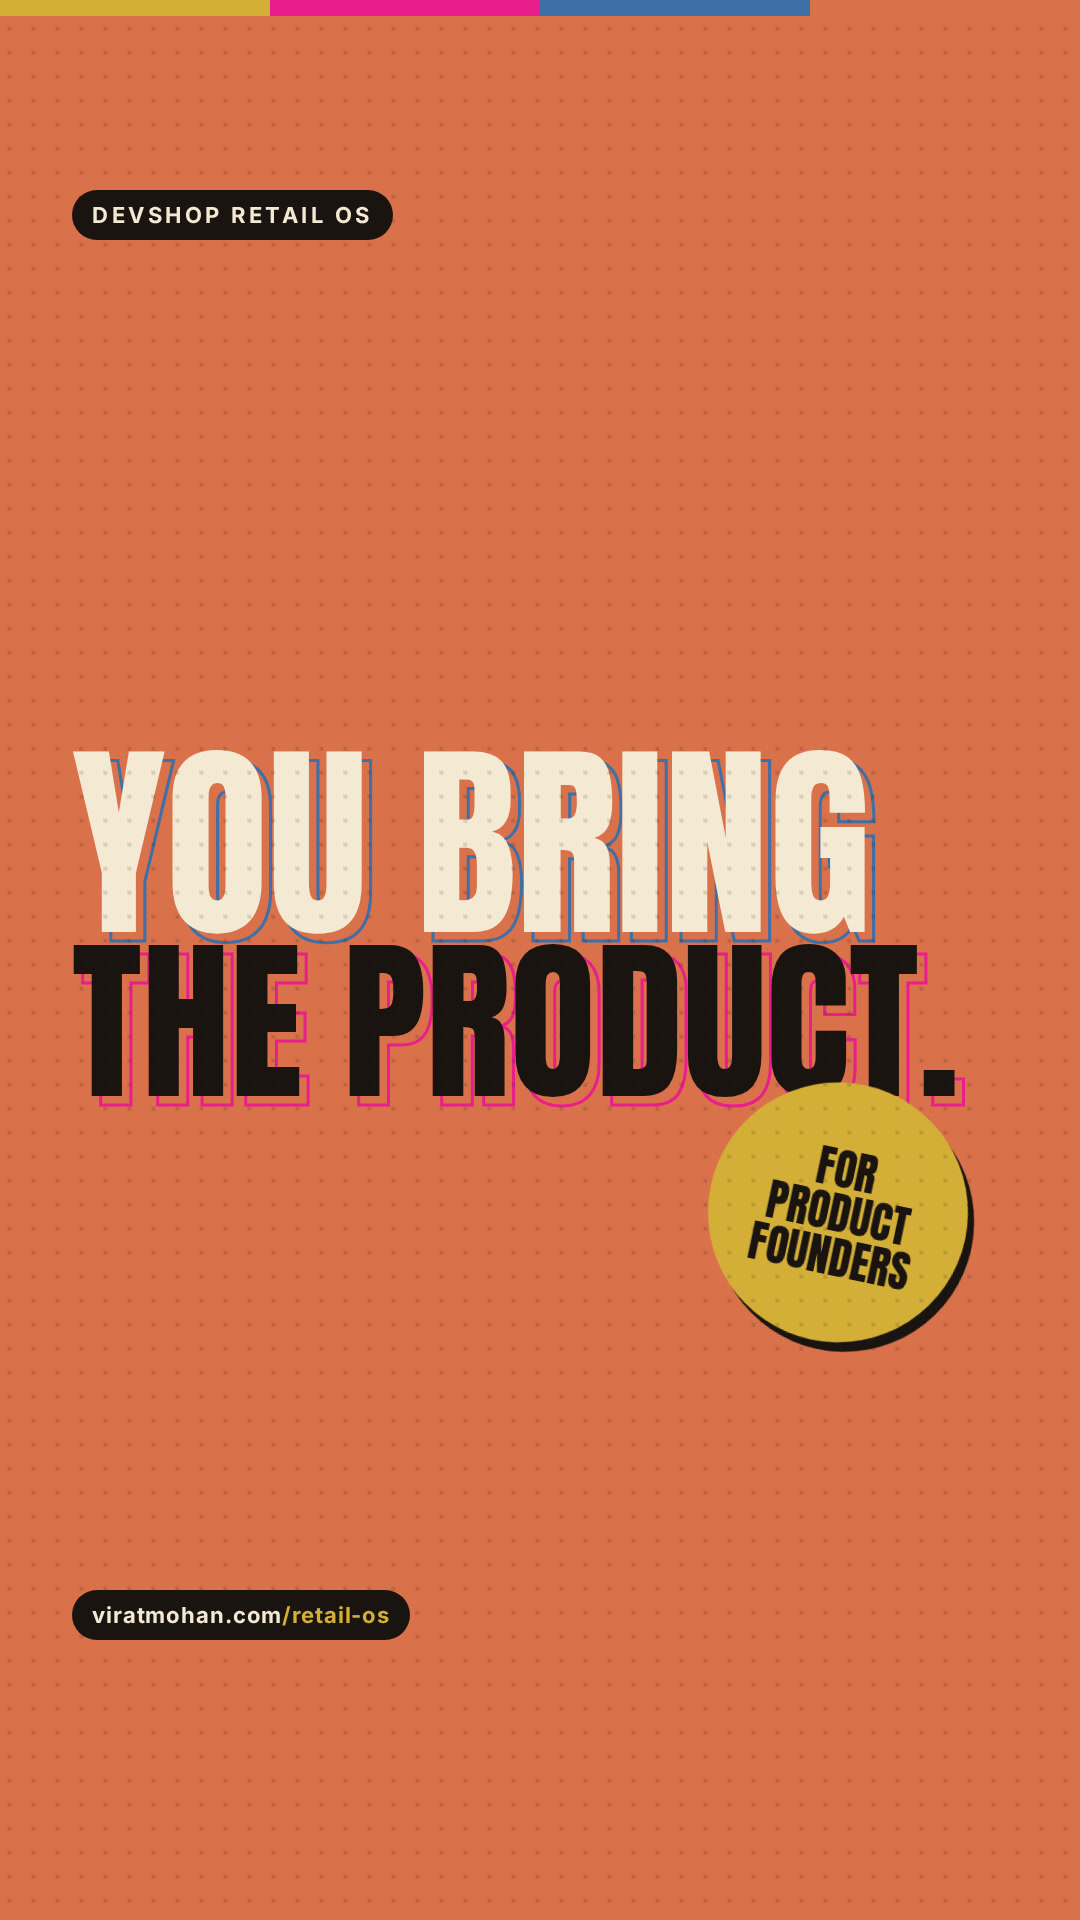
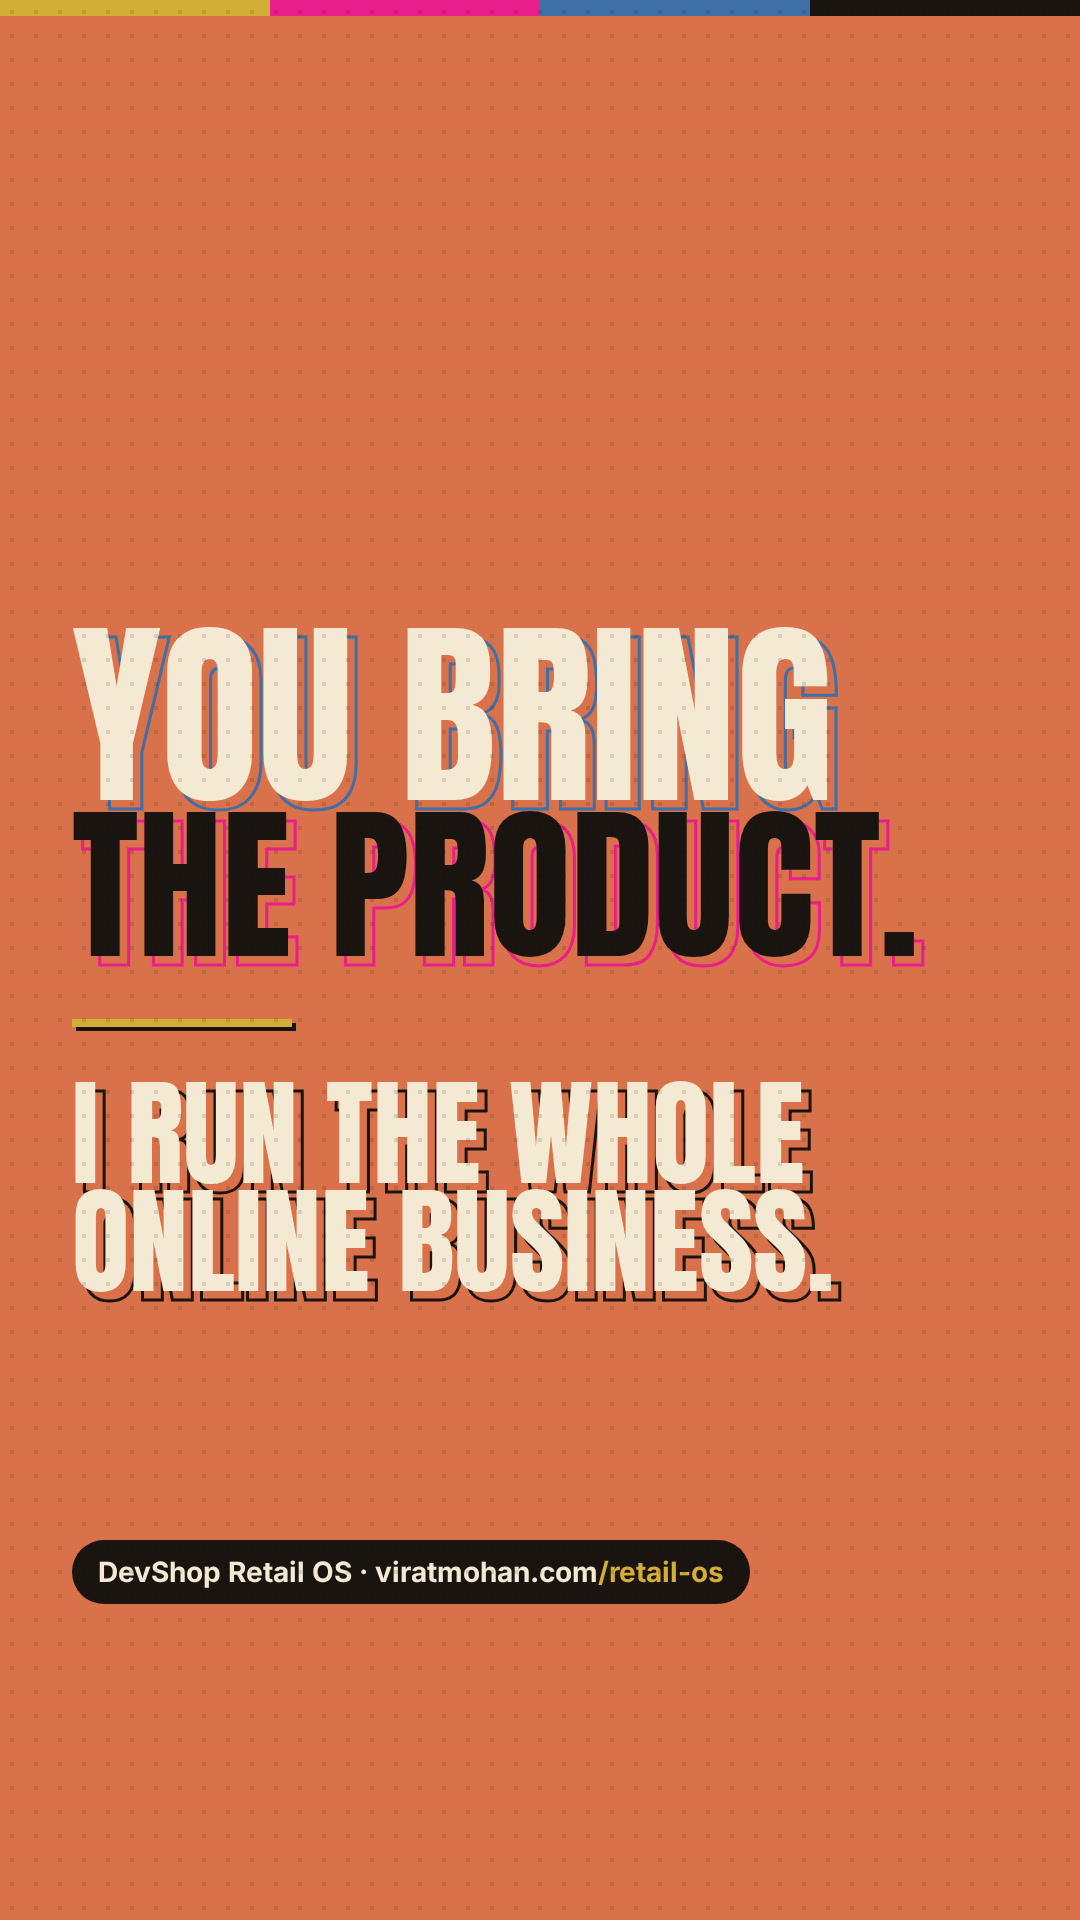
Reel cover: 'You bring the product. I run the whole online business.'
Claude-Session: https://claude.ai/code/session_01Ke9UyQKYGunxy6KRzvTrGa

diff --git a/tools/reel/cover.html b/tools/reel/cover.html
@@ -1,0 +1,42 @@
+<!doctype html>
+<html lang="en">
+<head>
+<meta charset="utf-8">
+<title>DevShop Retail OS reel cover</title>
+<!-- Reel cover, 1080x1920. Content sits inside the 3:4 profile-grid crop (y 240–1680). -->
+<style>
+@font-face { font-family: 'Anton'; src: url('../../case-study/fonts/anton-latin-400-normal.ttf'); }
+@font-face { font-family: 'Inter'; font-weight: 700; src: url('../../case-study/fonts/inter-latin-700-normal.ttf'); }
+:root { --ink: #1a1410; --cream: #f4ead4; --gold: #d4af37; --terracotta: #d9714b; --cobalt: #3e6fa6; --magenta: #e91e8c; }
+* { box-sizing: border-box; margin: 0; }
+html, body { width: 1080px; height: 1920px; overflow: hidden; background: var(--terracotta); }
+body { position: relative; font-family: 'Inter', sans-serif; }
+body::after { content: ''; position: absolute; inset: 0; mix-blend-mode: multiply;
+  background-image: radial-gradient(circle, rgba(23,19,15,.13) 2.2px, transparent 2.4px); background-size: 24px 24px; }
+.band { position: absolute; top: 0; left: 0; right: 0; height: 16px; display: grid; grid-template-columns: repeat(4,1fr); }
+.band i:nth-child(1){background:var(--gold)} .band i:nth-child(2){background:var(--magenta)} .band i:nth-child(3){background:var(--cobalt)} .band i:nth-child(4){background:var(--ink)}
+.box { position: absolute; left: 72px; right: 72px; top: 300px; height: 1320px; display: flex; flex-direction: column; justify-content: center; }
+.big { font-family: 'Anton', sans-serif; text-transform: uppercase; line-height: .92; position: relative; display: inline-block; white-space: nowrap; color: var(--cream); isolation: isolate; align-self: flex-start; }
+.big .gh { position: absolute; inset: 0; color: transparent; -webkit-text-stroke: 3px var(--g); transform: translate(9px, 9px); z-index: -1; }
+.ink { color: var(--ink); }
+.rule { height: 8px; width: 220px; background: var(--gold); margin: 56px 0 52px; box-shadow: 4px 4px 0 var(--ink); }
+.tag { position: absolute; left: 72px; top: 1540px; font: 700 28px/1 'Inter', sans-serif; background: var(--ink); color: var(--cream); padding: 18px 26px; border-radius: 999px; }
+.tag b { color: var(--gold); }
+</style>
+</head>
+<body>
+<div class="band"><i></i><i></i><i></i><i></i></div>
+<div class="box">
+  <div class="big" style="font-size:200px;--g:var(--cobalt)">You bring</div>
+  <div class="big ink" style="font-size:168px;--g:var(--magenta)">the product.</div>
+  <div class="rule"></div>
+  <div class="big" style="font-size:118px;--g:var(--ink)">I run the whole</div>
+  <div class="big" style="font-size:118px;--g:var(--ink)">online business.</div>
+</div>
+<div class="tag">DevShop Retail OS · viratmohan.com<b>/retail-os</b></div>
+<script>
+document.querySelectorAll('.big').forEach((el) => { const g = document.createElement('span'); g.className = 'gh'; g.textContent = el.textContent; el.appendChild(g); });
+window.DURATION = 0; window.seek = () => {};
+</script>
+</body>
+</html>

diff --git a/tools/reel/README.md b/tools/reel/README.md
@@ -31,4 +31,4 @@ The earlier synthesised soundtracks were rejected as sounding like MIDI and are 
 
 Re-pull the proof numbers before each re-post; a 3-day window moves.
 
-Cover: `public/retail-os/social/reel-cover.jpg` (frame at 2.2 s). Frame 0 is plain terracotta so the reel loops, so always set a cover: upload this file in Instagram (Edit cover), or pass `thumbnailOffset: 2200` when posting through Buffer.
+Cover: `public/retail-os/social/reel-cover.jpg`, rendered from `cover.html` ("You bring the product. I run the whole online business.", inside the 3:4 grid crop). Frame 0 is plain terracotta so the reel loops, so always set a cover: upload this file in Instagram (Edit cover), or pass `thumbnailOffset: 2200` when posting through Buffer.
